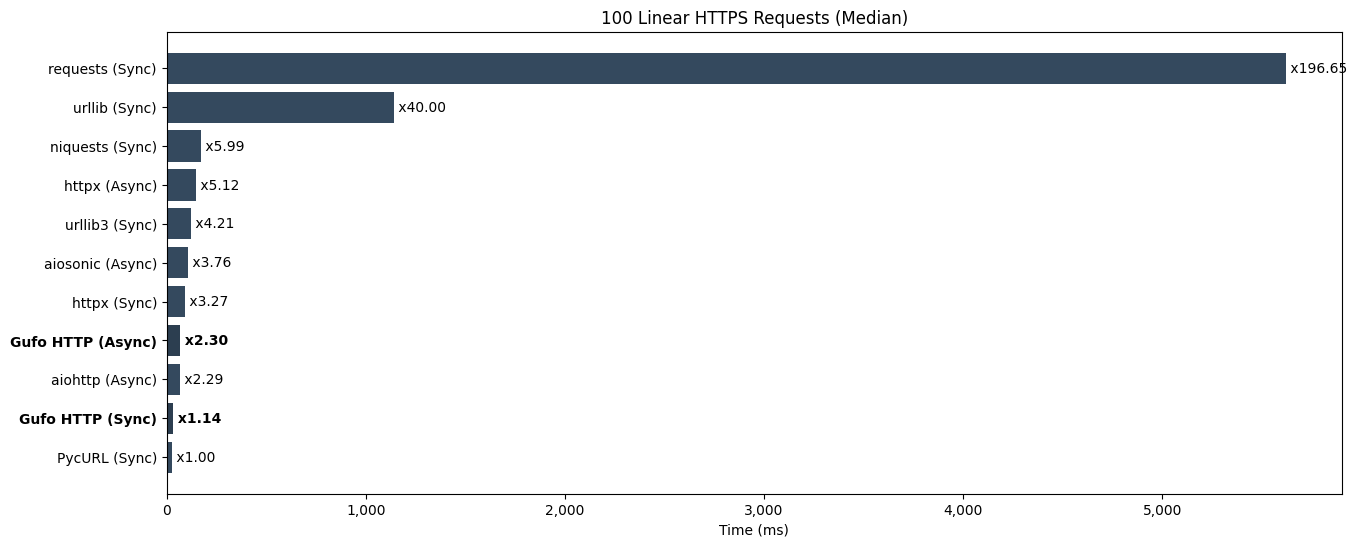
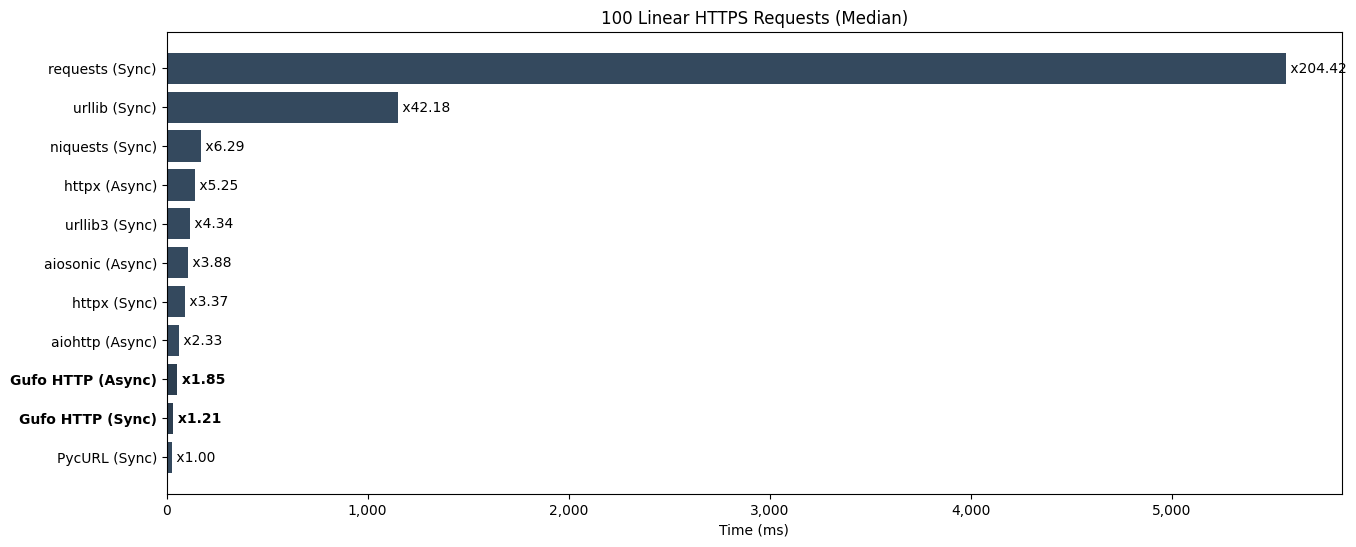
Refresh benchmarks

diff --git a/docs/benchmarks.md b/docs/benchmarks.md
@@ -4,18 +4,21 @@ hide:
 ---
 # Python HTTP Clients Benchmark
 
-!!! warning
+!!! warning "Disclaimer"
 
     All following information is provided only for reference.
     These tests are performed by [Gufo Labs][Gufo Labs] to estimate the performance
     of [Gufo HTTP][Gufo HTTP] against major competitors, so they cannot be considered
     independent and unbiased.
 
+!!! note
+
     Although performance is an absolute requirement for [Gufo Stack][Gufo Stack],
     other factors such as maturity, community, features, examples, and existing code base
     should also be considered.
 
-We're comparing:
+## Abstract
+This benchmark evaluates several Python HTTP client libraries:
 
 - [Gufo HTTP][Gufo HTTP] (current version)
 - [aiohttp][aiohttp] (3.9.3)
@@ -27,13 +30,23 @@ We're comparing:
 - [urllib][urllib] from Python standard library
 - [urllibb3][urllib3] (2.2.1)
 
-Both synchronous and asynchronous tests are conducted if supported by the library.
-Libraries are tested against a local nginx installation provided by the `gufo.http.httpd` wrapper.
-We're using median value to rank the benchmarks.
+The evaluation covers the following aspects:
+
+* Performance in synchronous (blocking) mode, if supported.
+* Performance in asynchronous mode, if supported.
+* Performance in plain-text (HTTP) and encrypted (HTTPS) modes.
+* Ability to maintain pools of connections.
+* Ability to release GIL in multi-threaded applications.
+
+All benchmarks are performed against a local nginx installation
+using wrapper, provided by `gufo.http.httpd`.
+
+The benchmarking environment utilizes an AWS EC2 t2.xlarge (64-bit) instance running Debian 12. 
+Median values are used for benchmark ranking.
 
 ## Preparing
 
-We're using AWS EC2 t2.xlarge (64 bit) instance with Debian 12.
+Start clear AWS EC2 t2.xlarge (64 bit) instance with Debian 12.
 
 Prepare node:
 ```
@@ -91,23 +104,23 @@ benchmarks/test_single_x100_1k.py ...........                                   
 ----------------------------------------------------------------------------------------------- benchmark: 11 tests -----------------------------------------------------------------------------------------------
 Name (time in us)                Min                    Max                   Mean                StdDev                 Median                   IQR            Outliers         OPS            Rounds  Iterations
 -------------------------------------------------------------------------------------------------------------------------------------------------------------------------------------------------------------------
-test_urllib3_sync           559.6880 (1.0)       1,246.9130 (1.67)        612.8979 (1.0)         44.8409 (1.56)        607.6110 (1.0)         25.8205 (1.0)         37;33  1,631.5931 (1.0)         697           1
-test_pycurl_sync            572.5990 (1.02)        748.3810 (1.0)         622.1162 (1.02)        34.7881 (1.21)        617.5100 (1.02)        40.2622 (1.56)         20;3  1,607.4169 (0.99)         73           1
-test_urllib_sync            658.8650 (1.18)        868.8990 (1.16)        720.5614 (1.18)        28.7254 (1.0)         716.4400 (1.18)        31.2975 (1.21)       208;26  1,387.8069 (0.85)        751           1
-test_gufo_http_sync         932.3560 (1.67)      2,139.1020 (2.86)      1,043.3998 (1.70)       177.0928 (6.17)      1,005.6240 (1.66)        62.1935 (2.41)          1;4    958.4054 (0.59)         45           1
-test_gufo_http_async      1,330.7690 (2.38)      1,622.9070 (2.17)      1,435.8727 (2.34)        46.7674 (1.63)      1,433.4990 (2.36)        60.2895 (2.33)        119;8    696.4405 (0.43)        405           1
-test_niquests_sync        1,542.7730 (2.76)     19,614.0250 (26.21)     1,779.6494 (2.90)       830.0737 (28.90)     1,661.4445 (2.73)       101.0680 (3.91)        8;108    561.9084 (0.34)        494           1
-test_requests_sync        1,761.6280 (3.15)      2,453.6630 (3.28)      1,909.8052 (3.12)       140.1992 (4.88)      1,856.9455 (3.06)       112.2350 (4.35)          8;4    523.6136 (0.32)         46           1
-test_aiosonic_async       1,959.2180 (3.50)      3,370.8260 (4.50)      2,154.0451 (3.51)       208.8863 (7.27)      2,093.3120 (3.45)        83.0015 (3.21)        40;41    464.2428 (0.28)        404           1
-test_aiohttp_async        2,151.3730 (3.84)      8,118.6410 (10.85)     2,292.1203 (3.74)       317.2131 (11.04)     2,267.8740 (3.73)        73.7982 (2.86)          1;7    436.2773 (0.27)        351           1
-test_httpx_sync          41,079.3140 (73.40)    54,493.3170 (72.81)    42,657.7260 (69.60)    2,765.8773 (96.29)    41,970.3340 (69.07)      753.7480 (29.19)         1;3     23.4424 (0.01)         22           1
-test_httpx_async         42,803.9490 (76.48)    52,177.8810 (69.72)    45,093.8321 (73.57)    2,592.9973 (90.27)    44,251.4320 (72.83)    1,208.5235 (46.80)         2;2     22.1760 (0.01)         15           1
+test_urllib3_sync           554.4570 (1.0)       1,536.1650 (1.83)        632.6178 (1.0)         62.9339 (1.73)        621.2800 (1.0)         36.4180 (1.0)         51;43  1,580.7332 (1.0)         715           1
+test_pycurl_sync            629.4390 (1.14)        837.4340 (1.0)         696.9158 (1.10)        42.7311 (1.17)        685.7915 (1.10)        53.6650 (1.47)         20;2  1,434.8935 (0.91)         68           1
+test_urllib_sync            689.3360 (1.24)        930.5660 (1.11)        771.1619 (1.22)        36.3905 (1.0)         763.9255 (1.23)        41.8110 (1.15)       168;25  1,296.7445 (0.82)        704           1
+test_gufo_http_sync       1,028.8110 (1.86)      1,492.4360 (1.78)      1,147.2073 (1.81)        73.6414 (2.02)      1,129.8320 (1.82)        87.5698 (2.40)         13;2    871.6820 (0.55)         67           1
+test_gufo_http_async      1,305.4320 (2.35)      2,491.2770 (2.97)      1,440.9713 (2.28)       121.9038 (3.35)      1,413.2970 (2.27)        89.5060 (2.46)        27;19    693.9763 (0.44)        390           1
+test_niquests_sync        1,566.6530 (2.83)     21,821.0800 (26.06)     1,849.7786 (2.92)       966.5830 (26.56)     1,708.1240 (2.75)       133.7685 (3.67)         7;98    540.6052 (0.34)        456           1
+test_requests_sync        1,795.1610 (3.24)      2,449.7940 (2.93)      1,929.5940 (3.05)       133.8849 (3.68)      1,884.6200 (3.03)       113.1722 (3.11)          6;3    518.2437 (0.33)         47           1
+test_aiosonic_async       2,052.7380 (3.70)      3,719.5100 (4.44)      2,328.1077 (3.68)       252.0696 (6.93)      2,261.1500 (3.64)       120.4875 (3.31)        41;41    429.5334 (0.27)        397           1
+test_aiohttp_async        2,281.1770 (4.11)      8,044.2500 (9.61)      2,471.1011 (3.91)       339.5952 (9.33)      2,441.3350 (3.93)        95.5642 (2.62)          3;8    404.6779 (0.26)        323           1
+test_httpx_sync          42,599.5430 (76.83)    57,718.0800 (68.92)    44,626.5008 (70.54)    3,823.4559 (105.07)   43,551.6350 (70.10)      390.4130 (10.72)         2;7     22.4082 (0.01)         22           1
+test_httpx_async         45,008.0350 (81.17)    55,920.3020 (66.78)    47,489.2551 (75.07)    2,944.8098 (80.92)    46,456.6860 (74.78)    2,560.7410 (70.32)         2;2     21.0574 (0.01)         18           1
 -------------------------------------------------------------------------------------------------------------------------------------------------------------------------------------------------------------------
 
 Legend:
   Outliers: 1 Standard Deviation from Mean; 1.5 IQR (InterQuartile Range) from 1st Quartile and 3rd Quartile.
   OPS: Operations Per Second, computed as 1 / Mean
-================================================================= 11 passed in 9.17s ==================================================================
+================================================================= 11 passed in 9.41s ==================================================================
 ```
 
 ![Median chart](single_x100_1k.png)
@@ -142,23 +155,23 @@ benchmarks/test_linear_x100_1k.py ...........                                   
 ----------------------------------------------------------------------------------- benchmark: 11 tests ------------------------------------------------------------------------------------
 Name (time in ms)             Min                 Max                Mean            StdDev              Median               IQR            Outliers      OPS            Rounds  Iterations
 --------------------------------------------------------------------------------------------------------------------------------------------------------------------------------------------
-test_pycurl_sync          14.8365 (1.0)       16.3861 (1.0)       15.5327 (1.0)      0.3498 (1.0)       15.5279 (1.0)      0.4758 (1.0)          20;0  64.3803 (1.0)          59           1
-test_gufo_http_sync       15.6296 (1.05)      18.9774 (1.16)      17.0747 (1.10)     0.6889 (1.97)      16.9616 (1.09)     0.9595 (2.02)         18;0  58.5661 (0.91)         58           1
-test_aiohttp_async        41.4606 (2.79)      43.2958 (2.64)      42.4532 (2.73)     0.5326 (1.52)      42.4940 (2.74)     0.7613 (1.60)          9;0  23.5553 (0.37)         23           1
-test_gufo_http_async      44.5912 (3.01)      49.0183 (2.99)      46.2745 (2.98)     1.1522 (3.29)      46.1390 (2.97)     1.0644 (2.24)          7;2  21.6102 (0.34)         22           1
-test_aiosonic_async       44.7362 (3.02)      48.9211 (2.99)      46.3734 (2.99)     0.8680 (2.48)      46.3936 (2.99)     0.7834 (1.65)          5;2  21.5641 (0.33)         22           1
-test_urllib3_sync         58.2859 (3.93)      59.8772 (3.65)      59.0778 (3.80)     0.4955 (1.42)      59.0435 (3.80)     0.5773 (1.21)          6;0  16.9268 (0.26)         17           1
-test_urllib_sync          70.2436 (4.73)      72.3247 (4.41)      71.5258 (4.60)     0.5289 (1.51)      71.4880 (4.60)     0.5479 (1.15)          4;1  13.9810 (0.22)         14           1
-test_niquests_sync        91.8051 (6.19)     109.4231 (6.68)      94.9622 (6.11)     4.8379 (13.83)     93.7023 (6.03)     0.6003 (1.26)          1;2  10.5305 (0.16)         11           1
-test_httpx_sync          112.5345 (7.58)     116.1791 (7.09)     114.3526 (7.36)     1.2965 (3.71)     113.8844 (7.33)     2.2858 (4.80)          4;0   8.7449 (0.14)          9           1
-test_httpx_async         167.3883 (11.28)    172.2522 (10.51)    168.7584 (10.86)    1.7953 (5.13)     168.3583 (10.84)    1.1404 (2.40)          1;1   5.9256 (0.09)          6           1
-test_requests_sync       180.1325 (12.14)    183.1228 (11.18)    182.1927 (11.73)    1.1785 (3.37)     182.7465 (11.77)    1.5222 (3.20)          1;0   5.4887 (0.09)          6           1
+test_pycurl_sync          15.7209 (1.0)       17.4826 (1.0)       16.5177 (1.0)      0.4374 (1.0)       16.5259 (1.0)      0.4625 (1.0)          18;2  60.5410 (1.0)          60           1
+test_gufo_http_sync       17.8568 (1.14)      20.7740 (1.19)      19.4510 (1.18)     0.7784 (1.78)      19.6666 (1.19)     1.0538 (2.28)         19;0  51.4113 (0.85)         52           1
+test_gufo_http_async      32.0142 (2.04)      36.6345 (2.10)      35.0291 (2.12)     1.1316 (2.59)      35.1273 (2.13)     1.2688 (2.74)          9;1  28.5477 (0.47)         30           1
+test_aiohttp_async        42.9462 (2.73)      46.6140 (2.67)      45.0808 (2.73)     0.8582 (1.96)      44.8978 (2.72)     1.0455 (2.26)          5;1  22.1824 (0.37)         22           1
+test_aiosonic_async       46.4653 (2.96)      49.4529 (2.83)      47.7811 (2.89)     0.6290 (1.44)      47.7124 (2.89)     0.5660 (1.22)          4;2  20.9288 (0.35)         21           1
+test_urllib3_sync         54.1701 (3.45)      56.8959 (3.25)      55.3582 (3.35)     0.7389 (1.69)      55.4057 (3.35)     1.1371 (2.46)          5;0  18.0642 (0.30)         18           1
+test_urllib_sync          73.9660 (4.70)      79.5802 (4.55)      75.9264 (4.60)     1.4029 (3.21)      75.6989 (4.58)     1.2797 (2.77)          3;1  13.1707 (0.22)         14           1
+test_niquests_sync        94.7829 (6.03)     115.4204 (6.60)      97.9240 (5.93)     5.9087 (13.51)     95.8562 (5.80)     2.3509 (5.08)          1;1  10.2120 (0.17)         11           1
+test_httpx_sync          116.1272 (7.39)     123.0537 (7.04)     119.6039 (7.24)     2.2205 (5.08)     120.0800 (7.27)     2.6723 (5.78)          4;0   8.3609 (0.14)          9           1
+test_httpx_async         174.0273 (11.07)    180.2973 (10.31)    177.9930 (10.78)    3.0217 (6.91)     179.6829 (10.87)    5.8687 (12.69)         2;0   5.6182 (0.09)          6           1
+test_requests_sync       189.3613 (12.05)    194.5671 (11.13)    191.7294 (11.61)    1.9597 (4.48)     191.9551 (11.62)    3.1663 (6.85)          3;0   5.2157 (0.09)          6           1
 --------------------------------------------------------------------------------------------------------------------------------------------------------------------------------------------
 
 Legend:
   Outliers: 1 Standard Deviation from Mean; 1.5 IQR (InterQuartile Range) from 1st Quartile and 3rd Quartile.
   OPS: Operations Per Second, computed as 1 / Mean
-================================================================= 11 passed in 15.21s =================================================================
+================================================================= 11 passed in 15.62s =================================================================
 ```
 
 ![Median chart](linear_x100_1k.png)
@@ -192,26 +205,26 @@ collected 11 items
 benchmarks/test_p4_x100_1k.py ...........                                                                                                       [100%]
 
 
------------------------------------------------------------------------------------- benchmark: 11 tests ------------------------------------------------------------------------------------
-Name (time in ms)             Min                 Max                Mean            StdDev              Median               IQR            Outliers       OPS            Rounds  Iterations
----------------------------------------------------------------------------------------------------------------------------------------------------------------------------------------------
-test_gufo_http_sync        7.2836 (1.0)       10.8954 (1.0)        9.1802 (1.0)      0.5346 (1.03)       9.1541 (1.0)      0.5174 (1.04)         25;6  108.9302 (1.0)          92           1
-test_pycurl_sync           8.2186 (1.13)      11.0696 (1.02)       9.3183 (1.02)     0.5181 (1.0)        9.2534 (1.01)     0.4962 (1.0)          26;6  107.3162 (0.99)         87           1
-test_gufo_http_async      30.1939 (4.15)      40.5446 (3.72)      31.6853 (3.45)     1.8262 (3.52)      31.3115 (3.42)     1.0123 (2.04)          2;2   31.5604 (0.29)         31           1
-test_aiosonic_async       34.1517 (4.69)      38.6213 (3.54)      36.0843 (3.93)     1.3087 (2.53)      35.6595 (3.90)     1.8279 (3.68)          9;0   27.7129 (0.25)         27           1
-test_aiohttp_async        37.4081 (5.14)      47.7629 (4.38)      39.4416 (4.30)     1.9344 (3.73)      39.0971 (4.27)     0.9056 (1.82)          3;2   25.3539 (0.23)         25           1
-test_urllib_sync          41.5838 (5.71)      44.7744 (4.11)      43.2369 (4.71)     0.7841 (1.51)      43.2862 (4.73)     1.1149 (2.25)          7;0   23.1284 (0.21)         23           1
-test_urllib3_sync         63.4683 (8.71)      66.6725 (6.12)      64.5508 (7.03)     0.8025 (1.55)      64.5220 (7.05)     1.1252 (2.27)          4;0   15.4917 (0.14)         16           1
-test_niquests_sync        99.8689 (13.71)    118.2912 (10.86)    102.6201 (11.18)    5.5534 (10.72)    100.9334 (11.03)    1.6546 (3.33)          1;1    9.7447 (0.09)         10           1
-test_requests_sync       161.9760 (22.24)    164.8976 (15.13)    163.5207 (17.81)    1.3422 (2.59)     163.7541 (17.89)    2.5137 (5.07)          3;0    6.1154 (0.06)          6           1
-test_httpx_sync          210.2389 (28.86)    225.5404 (20.70)    217.2855 (23.67)    5.8637 (11.32)    218.2690 (23.84)    8.1161 (16.36)         2;0    4.6022 (0.04)          5           1
-test_httpx_async         280.2248 (38.47)    290.9817 (26.71)    285.0176 (31.05)    4.2305 (8.17)     284.1745 (31.04)    6.4064 (12.91)         2;0    3.5086 (0.03)          5           1
----------------------------------------------------------------------------------------------------------------------------------------------------------------------------------------------
+------------------------------------------------------------------------------------ benchmark: 11 tests -------------------------------------------------------------------------------------
+Name (time in ms)             Min                 Max                Mean            StdDev              Median                IQR            Outliers       OPS            Rounds  Iterations
+----------------------------------------------------------------------------------------------------------------------------------------------------------------------------------------------
+test_gufo_http_sync        8.0439 (1.0)       12.3677 (1.02)       9.9901 (1.0)      0.7297 (1.11)       9.9671 (1.0)       0.8344 (1.17)         16;5  100.0993 (1.0)          76           1
+test_pycurl_sync           8.4782 (1.05)      12.1379 (1.0)       10.4156 (1.04)     0.8120 (1.24)      10.4619 (1.05)      1.0731 (1.51)         29;0   96.0097 (0.96)         90           1
+test_gufo_http_async      21.6504 (2.69)      24.3966 (2.01)      22.8209 (2.28)     0.6571 (1.0)       22.7816 (2.29)      0.7117 (1.0)          14;2   43.8195 (0.44)         39           1
+test_aiosonic_async       34.8526 (4.33)      39.4812 (3.25)      36.8918 (3.69)     1.1007 (1.68)      37.0412 (3.72)      1.4879 (2.09)          7;0   27.1063 (0.27)         26           1
+test_aiohttp_async        38.7963 (4.82)      50.5832 (4.17)      40.5610 (4.06)     2.3938 (3.64)      39.8064 (3.99)      2.0563 (2.89)          1;1   24.6542 (0.25)         24           1
+test_urllib_sync          44.0200 (5.47)      48.4414 (3.99)      46.0278 (4.61)     0.9189 (1.40)      45.9976 (4.61)      1.1174 (1.57)          4;1   21.7260 (0.22)         22           1
+test_urllib3_sync         59.5702 (7.41)      62.8944 (5.18)      60.6641 (6.07)     0.9540 (1.45)      60.3036 (6.05)      1.1052 (1.55)          4;1   16.4842 (0.16)         17           1
+test_niquests_sync       103.6997 (12.89)    127.1946 (10.48)    107.7241 (10.78)    6.9286 (10.54)    105.7414 (10.61)     2.0290 (2.85)          1;1    9.2830 (0.09)         10           1
+test_requests_sync       169.1568 (21.03)    173.9227 (14.33)    171.3491 (17.15)    1.9588 (2.98)     170.8775 (17.14)     3.7797 (5.31)          3;0    5.8360 (0.06)          6           1
+test_httpx_sync          228.8940 (28.46)    240.2867 (19.80)    233.2785 (23.35)    5.2410 (7.98)     229.9074 (23.07)     8.6472 (12.15)         1;0    4.2867 (0.04)          5           1
+test_httpx_async         289.7245 (36.02)    303.9310 (25.04)    296.9236 (29.72)    6.8107 (10.37)    296.9415 (29.79)    13.3072 (18.70)         2;0    3.3679 (0.03)          5           1
+----------------------------------------------------------------------------------------------------------------------------------------------------------------------------------------------
 
 Legend:
   Outliers: 1 Standard Deviation from Mean; 1.5 IQR (InterQuartile Range) from 1st Quartile and 3rd Quartile.
   OPS: Operations Per Second, computed as 1 / Mean
-================================================================= 11 passed in 15.52s =================================================================
+================================================================= 11 passed in 15.82s =================================================================
 ```
 
 ![Median chart](p4_x100_1k.png)
@@ -242,29 +255,29 @@ rootdir: /home/admin/bench/gufo_http
 plugins: anyio-4.3.0, benchmark-4.0.0
 collected 11 items                                                                                                                                    
 
-benchmarks/test_https_single_x100_1k.py ...........
+benchmarks/test_https_single_x100_1k.py ...........                                                                                             [100%]
 
 
 --------------------------------------------------------------------------------- benchmark: 11 tests ----------------------------------------------------------------------------------
 Name (time in ms)            Min                Max               Mean            StdDev             Median               IQR            Outliers      OPS            Rounds  Iterations
 ----------------------------------------------------------------------------------------------------------------------------------------------------------------------------------------
-test_pycurl_sync         10.1101 (1.0)      10.5270 (1.0)      10.2586 (1.0)      0.0936 (1.0)      10.2440 (1.0)      0.1147 (1.0)          12;1  97.4796 (1.0)          35           1
-test_gufo_http_sync      10.1201 (1.00)     13.3844 (1.27)     10.9279 (1.07)     1.2221 (13.06)    10.3468 (1.01)     0.2738 (2.39)          3;3  91.5086 (0.94)         15           1
-test_gufo_http_async     10.5507 (1.04)     12.8932 (1.22)     10.8390 (1.06)     0.2696 (2.88)     10.8037 (1.05)     0.1846 (1.61)          6;3  92.2592 (0.95)         80           1
-test_urllib_sync         11.2086 (1.11)     20.0086 (1.90)     11.7377 (1.14)     1.0123 (10.82)    11.5494 (1.13)     0.4450 (3.88)          4;4  85.1954 (0.87)         83           1
-test_httpx_sync          11.6343 (1.15)     13.5775 (1.29)     11.9254 (1.16)     0.2859 (3.05)     11.8440 (1.16)     0.1684 (1.47)          9;8  83.8543 (0.86)         78           1
-test_aiohttp_async       13.0218 (1.29)     15.0993 (1.43)     13.5596 (1.32)     0.4582 (4.90)     13.4380 (1.31)     0.3692 (3.22)          3;1  73.7485 (0.76)         18           1
-test_httpx_async         14.0437 (1.39)     17.7872 (1.69)     14.6871 (1.43)     0.7068 (7.55)     14.4611 (1.41)     0.6279 (5.48)          4;3  68.0869 (0.70)         40           1
-test_aiosonic_async      52.5720 (5.20)     59.0495 (5.61)     53.9475 (5.26)     1.4194 (15.17)    53.6496 (5.24)     0.6740 (5.88)          2;2  18.5365 (0.19)         19           1
-test_urllib3_sync        52.7468 (5.22)     60.9415 (5.79)     55.0618 (5.37)     1.9572 (20.91)    54.9122 (5.36)     2.6238 (22.88)         6;1  18.1614 (0.19)         20           1
-test_niquests_sync       54.0449 (5.35)     57.9727 (5.51)     55.5715 (5.42)     1.0943 (11.69)    55.3307 (5.40)     1.3082 (11.41)         4;0  17.9948 (0.18)         18           1
-test_requests_sync       54.1392 (5.35)     57.9534 (5.51)     55.7626 (5.44)     1.2469 (13.32)    55.3186 (5.40)     2.3477 (20.47)         5;0  17.9332 (0.18)         14           1
+test_pycurl_sync         10.0175 (1.0)      12.0872 (1.0)      10.2290 (1.0)      0.4147 (1.10)     10.1222 (1.0)      0.1027 (1.0)           3;4  97.7609 (1.0)          62           1
+test_gufo_http_sync      10.0597 (1.00)     13.0244 (1.08)     10.4489 (1.02)     0.5979 (1.59)     10.2685 (1.01)     0.2163 (2.11)          6;9  95.7036 (0.98)         73           1
+test_gufo_http_async     10.3528 (1.03)     13.2080 (1.09)     10.7742 (1.05)     0.4577 (1.22)     10.6623 (1.05)     0.2691 (2.62)          4;4  92.8143 (0.95)         85           1
+test_urllib_sync         11.2151 (1.12)     20.4371 (1.69)     11.6105 (1.14)     1.0735 (2.86)     11.4075 (1.13)     0.1948 (1.90)          4;5  86.1292 (0.88)         83           1
+test_httpx_sync          11.4543 (1.14)     14.0466 (1.16)     11.8267 (1.16)     0.4756 (1.27)     11.6695 (1.15)     0.2974 (2.90)          8;7  84.5546 (0.86)         79           1
+test_aiohttp_async       12.9571 (1.29)     15.0958 (1.25)     13.3663 (1.31)     0.5476 (1.46)     13.1705 (1.30)     0.2873 (2.80)          2;2  74.8148 (0.77)         19           1
+test_httpx_async         13.8272 (1.38)     15.5035 (1.28)     14.2621 (1.39)     0.3758 (1.0)      14.1863 (1.40)     0.3401 (3.31)          7;3  70.1158 (0.72)         42           1
+test_urllib3_sync        52.2947 (5.22)     55.5100 (4.59)     53.5159 (5.23)     0.8129 (2.16)     53.3167 (5.27)     0.8969 (8.73)          5;1  18.6861 (0.19)         20           1
+test_aiosonic_async      52.5721 (5.25)     59.7053 (4.94)     53.8514 (5.26)     1.5025 (4.00)     53.4758 (5.28)     0.7073 (6.89)          1;1  18.5696 (0.19)         19           1
+test_niquests_sync       53.1531 (5.31)     55.9122 (4.63)     54.2606 (5.30)     0.7590 (2.02)     54.3079 (5.37)     0.8548 (8.32)          7;1  18.4296 (0.19)         19           1
+test_requests_sync       53.3831 (5.33)     55.6010 (4.60)     54.8199 (5.36)     0.6931 (1.84)     55.0437 (5.44)     1.0851 (10.57)         7;0  18.2415 (0.19)         17           1
 ----------------------------------------------------------------------------------------------------------------------------------------------------------------------------------------
 
 Legend:
   Outliers: 1 Standard Deviation from Mean; 1.5 IQR (InterQuartile Range) from 1st Quartile and 3rd Quartile.
   OPS: Operations Per Second, computed as 1 / Mean
-========================================================== 11 passed, 44 warnings in 14.36s ===========================================================
+========================================================== 11 passed, 45 warnings in 15.69s ===========================================================
 ```
 
 ![Median chart](https_single_x100_1k.png)
@@ -297,26 +310,26 @@ collected 11 items
 benchmarks/test_https_linear_x100_1k.py ...........                                                                                             [100%]
 
 
------------------------------------------------------------------------------------------ benchmark: 11 tests -----------------------------------------------------------------------------------------
-Name (time in ms)               Min                   Max                  Mean             StdDev                Median                 IQR            Outliers      OPS            Rounds  Iterations
--------------------------------------------------------------------------------------------------------------------------------------------------------------------------------------------------------
-test_pycurl_sync            27.5530 (1.0)         30.2960 (1.0)         28.6996 (1.0)       0.6420 (1.0)         28.5782 (1.0)        0.9508 (1.23)          9;0  34.8437 (1.0)          34           1
-test_gufo_http_sync         31.3744 (1.14)        36.4130 (1.20)        32.9570 (1.15)      1.3197 (2.06)        32.5026 (1.14)       1.2681 (1.64)          6;3  30.3426 (0.87)         28           1
-test_aiohttp_async          63.8585 (2.32)        66.9743 (2.21)        65.5050 (2.28)      0.9388 (1.46)        65.4824 (2.29)       0.9370 (1.21)          3;0  15.2660 (0.44)         10           1
-test_gufo_http_async        64.1737 (2.33)        67.4971 (2.23)        65.7372 (2.29)      1.0170 (1.58)        65.6995 (2.30)       1.2399 (1.61)          5;0  15.2121 (0.44)         15           1
-test_httpx_sync             91.8231 (3.33)        94.9401 (3.13)        93.3547 (3.25)      0.9826 (1.53)        93.3101 (3.27)       1.6283 (2.11)          4;0  10.7118 (0.31)         11           1
-test_aiosonic_async        106.2416 (3.86)       116.4554 (3.84)       108.6888 (3.79)      3.3076 (5.15)       107.4159 (3.76)       2.4509 (3.17)          2;1   9.2006 (0.26)         10           1
-test_urllib3_sync          118.7272 (4.31)       123.1409 (4.06)       120.3286 (4.19)      1.5320 (2.39)       120.2105 (4.21)       2.1491 (2.78)          3;0   8.3106 (0.24)          9           1
-test_httpx_async           143.8137 (5.22)       151.3308 (5.00)       146.5398 (5.11)      2.6129 (4.07)       146.2607 (5.12)       3.4013 (4.40)          2;0   6.8241 (0.20)          7           1
-test_niquests_sync         169.8794 (6.17)       172.0863 (5.68)       171.1388 (5.96)      0.7578 (1.18)       171.3233 (5.99)       0.7722 (1.0)           2;0   5.8432 (0.17)          6           1
-test_urllib_sync         1,139.7685 (41.37)    1,147.2830 (37.87)    1,143.7662 (39.85)     2.9161 (4.54)     1,143.2564 (40.00)      4.2299 (5.48)          2;0   0.8743 (0.03)          5           1
-test_requests_sync       5,508.6240 (199.93)   5,639.1937 (186.14)   5,584.9020 (194.60)   60.9650 (94.96)    5,619.8474 (196.65)   106.0952 (137.39)        1;0   0.1791 (0.01)          5           1
--------------------------------------------------------------------------------------------------------------------------------------------------------------------------------------------------------
+---------------------------------------------------------------------------------------- benchmark: 11 tests -----------------------------------------------------------------------------------------
+Name (time in ms)               Min                   Max                  Mean             StdDev                Median                IQR            Outliers      OPS            Rounds  Iterations
+------------------------------------------------------------------------------------------------------------------------------------------------------------------------------------------------------
+test_pycurl_sync            26.3421 (1.0)         30.1005 (1.0)         27.4302 (1.0)       0.8045 (1.0)         27.2414 (1.0)       0.9238 (1.0)           7;2  36.4562 (1.0)          34           1
+test_gufo_http_sync         31.7724 (1.21)        37.4644 (1.24)        33.4854 (1.22)      1.3531 (1.68)        33.0871 (1.21)      1.2693 (1.37)          6;2  29.8637 (0.82)         29           1
+test_gufo_http_async        48.5834 (1.84)        52.5665 (1.75)        50.5041 (1.84)      1.0680 (1.33)        50.3793 (1.85)      1.1559 (1.25)          6;0  19.8004 (0.54)         20           1
+test_aiohttp_async          61.9829 (2.35)        65.8641 (2.19)        63.6917 (2.32)      1.2468 (1.55)        63.5328 (2.33)      1.3593 (1.47)          4;0  15.7006 (0.43)         10           1
+test_httpx_sync             89.3649 (3.39)        94.1770 (3.13)        91.9501 (3.35)      1.2780 (1.59)        91.9369 (3.37)      1.4473 (1.57)          2;0  10.8755 (0.30)         11           1
+test_aiosonic_async        103.2271 (3.92)       113.2592 (3.76)       106.2470 (3.87)      2.8638 (3.56)       105.6261 (3.88)      1.3499 (1.46)          2;2   9.4120 (0.26)         10           1
+test_urllib3_sync          115.4779 (4.38)       122.0520 (4.05)       118.5464 (4.32)      2.3145 (2.88)       118.2140 (4.34)      3.8105 (4.12)          3;0   8.4355 (0.23)          9           1
+test_httpx_async           140.8665 (5.35)       148.0266 (4.92)       144.0411 (5.25)      2.9127 (3.62)       143.0293 (5.25)      5.1042 (5.53)          2;0   6.9425 (0.19)          7           1
+test_niquests_sync         169.7255 (6.44)       175.5512 (5.83)       171.7667 (6.26)      2.0632 (2.56)       171.2311 (6.29)      1.9346 (2.09)          1;1   5.8218 (0.16)          6           1
+test_urllib_sync         1,138.9195 (43.24)    1,156.0135 (38.41)    1,149.2373 (41.90)     6.8444 (8.51)     1,148.9634 (42.18)     9.8515 (10.66)         1;0   0.8701 (0.02)          5           1
+test_requests_sync       5,543.3235 (210.44)   5,582.3273 (185.46)   5,564.8142 (202.87)   15.1227 (18.80)    5,568.6101 (204.42)   21.9277 (23.74)         2;0   0.1797 (0.00)          5           1
+------------------------------------------------------------------------------------------------------------------------------------------------------------------------------------------------------
 
 Legend:
   Outliers: 1 Standard Deviation from Mean; 1.5 IQR (InterQuartile Range) from 1st Quartile and 3rd Quartile.
   OPS: Operations Per Second, computed as 1 / Mean
-==================================================== 11 passed, 1215 warnings in 62.47s (0:01:02) =====================================================
+==================================================== 11 passed, 1215 warnings in 62.84s (0:01:02) =====================================================
 ```
 
 ![Median chart](https_linear_x100_1k.png)
@@ -349,26 +362,26 @@ collected 11 items
 benchmarks/test_https_p4_x100_1k.py ...........                                                                                                 [100%]
 
 
----------------------------------------------------------------------------------------- benchmark: 11 tests -----------------------------------------------------------------------------------------
-Name (time in ms)               Min                   Max                  Mean             StdDev                Median                IQR            Outliers      OPS            Rounds  Iterations
-------------------------------------------------------------------------------------------------------------------------------------------------------------------------------------------------------
-test_gufo_http_sync         21.1360 (1.0)         29.4575 (1.0)         25.4910 (1.02)      2.3480 (1.19)        25.9351 (1.04)      3.3171 (1.72)         16;0  39.2295 (0.98)         40           1
-test_pycurl_sync            21.3382 (1.01)        30.6251 (1.04)        25.0360 (1.0)       1.9783 (1.0)         25.0387 (1.0)       2.2491 (1.17)         11;1  39.9424 (1.0)          34           1
-test_gufo_http_async        46.4599 (2.20)        73.1334 (2.48)        56.4327 (2.25)      8.6226 (4.36)        54.3729 (2.17)      1.9234 (1.0)           8;8  17.7202 (0.44)         18           1
-test_aiohttp_async          68.1954 (3.23)        75.2719 (2.56)        72.5235 (2.90)      2.8257 (1.43)        73.5960 (2.94)      5.2576 (2.73)          3;0  13.7886 (0.35)          9           1
-test_httpx_sync            101.0239 (4.78)       125.3279 (4.25)       104.9345 (4.19)      7.2883 (3.68)       102.2178 (4.08)      2.3788 (1.24)          1;1   9.5298 (0.24)         10           1
-test_httpx_async           156.7438 (7.42)       172.7126 (5.86)       168.6394 (6.74)      6.0067 (3.04)       170.6249 (6.81)      2.8955 (1.51)          1;1   5.9298 (0.15)          6           1
-test_urllib3_sync          191.3591 (9.05)       218.9681 (7.43)       204.5412 (8.17)     11.2807 (5.70)       202.2406 (8.08)     20.2861 (10.55)         3;0   4.8890 (0.12)          6           1
-test_aiosonic_async        219.9907 (10.41)      245.8470 (8.35)       236.3696 (9.44)      9.6836 (4.89)       238.3812 (9.52)      7.5230 (3.91)          1;1   4.2307 (0.11)          5           1
-test_niquests_sync         260.7054 (12.33)      287.2331 (9.75)       275.4114 (11.00)    12.1043 (6.12)       282.2942 (11.27)    20.6499 (10.74)         1;0   3.6309 (0.09)          5           1
-test_urllib_sync           361.2022 (17.09)      402.9708 (13.68)      389.2026 (15.55)    18.0500 (9.12)       399.6454 (15.96)    25.9360 (13.48)         1;0   2.5694 (0.06)          5           1
-test_requests_sync       3,065.0650 (145.02)   3,245.8865 (110.19)   3,151.5214 (125.88)   68.7689 (34.76)    3,154.8421 (126.00)   97.8452 (50.87)         2;0   0.3173 (0.01)          5           1
-------------------------------------------------------------------------------------------------------------------------------------------------------------------------------------------------------
+----------------------------------------------------------------------------------------- benchmark: 11 tests -----------------------------------------------------------------------------------------
+Name (time in ms)               Min                   Max                  Mean             StdDev                Median                 IQR            Outliers      OPS            Rounds  Iterations
+-------------------------------------------------------------------------------------------------------------------------------------------------------------------------------------------------------
+test_gufo_http_sync         20.6258 (1.0)         37.0803 (1.26)        26.4525 (1.05)      3.7755 (1.64)        25.9621 (1.04)       3.8212 (2.20)          6;2  37.8036 (0.95)         29           1
+test_pycurl_sync            21.1610 (1.03)        29.3905 (1.0)         25.1359 (1.0)       2.3022 (1.0)         24.9755 (1.0)        4.2328 (2.44)         17;0  39.7838 (1.0)          39           1
+test_gufo_http_async        35.8372 (1.74)        60.1148 (2.05)        46.7498 (1.86)      8.1061 (3.52)        45.5552 (1.82)       8.3387 (4.81)          7;0  21.3904 (0.54)         17           1
+test_aiohttp_async          65.3908 (3.17)        76.4706 (2.60)        69.9007 (2.78)      4.6796 (2.03)        67.3866 (2.70)       8.6655 (5.00)          2;0  14.3060 (0.36)          9           1
+test_httpx_sync             98.6794 (4.78)       124.9383 (4.25)       102.9917 (4.10)      8.0116 (3.48)       100.0871 (4.01)       1.7342 (1.0)           1;2   9.7095 (0.24)         10           1
+test_httpx_async           152.1140 (7.37)       174.7069 (5.94)       166.8092 (6.64)      7.9758 (3.46)       167.5051 (6.71)       6.9171 (3.99)          1;1   5.9949 (0.15)          6           1
+test_urllib3_sync          196.1793 (9.51)       223.5420 (7.61)       209.3882 (8.33)     11.7585 (5.11)       206.5584 (8.27)      20.6073 (11.88)         2;0   4.7758 (0.12)          5           1
+test_aiosonic_async        223.2350 (10.82)      238.1506 (8.10)       233.4407 (9.29)      6.0417 (2.62)       235.2870 (9.42)       7.0156 (4.05)          1;0   4.2837 (0.11)          5           1
+test_niquests_sync         264.6908 (12.83)      286.2919 (9.74)       277.4245 (11.04)     7.8515 (3.41)       278.5876 (11.15)      6.3504 (3.66)          2;1   3.6046 (0.09)          5           1
+test_urllib_sync           351.5201 (17.04)      443.4516 (15.09)      381.6394 (15.18)    37.6758 (16.37)      368.0980 (14.74)     49.0032 (28.26)         1;0   2.6203 (0.07)          5           1
+test_requests_sync       3,119.1229 (151.22)   3,325.4302 (113.15)   3,208.3215 (127.64)   91.7283 (39.84)    3,187.9270 (127.64)   165.5241 (95.45)         1;0   0.3117 (0.01)          5           1
+-------------------------------------------------------------------------------------------------------------------------------------------------------------------------------------------------------
 
 Legend:
   Outliers: 1 Standard Deviation from Mean; 1.5 IQR (InterQuartile Range) from 1st Quartile and 3rd Quartile.
   OPS: Operations Per Second, computed as 1 / Mean
-========================================================= 11 passed, 1131 warnings in 41.18s ==========================================================
+========================================================= 11 passed, 1131 warnings in 39.64s ==========================================================
 ```
 
 ![Median chart](https_p4_x100_1k.png)
